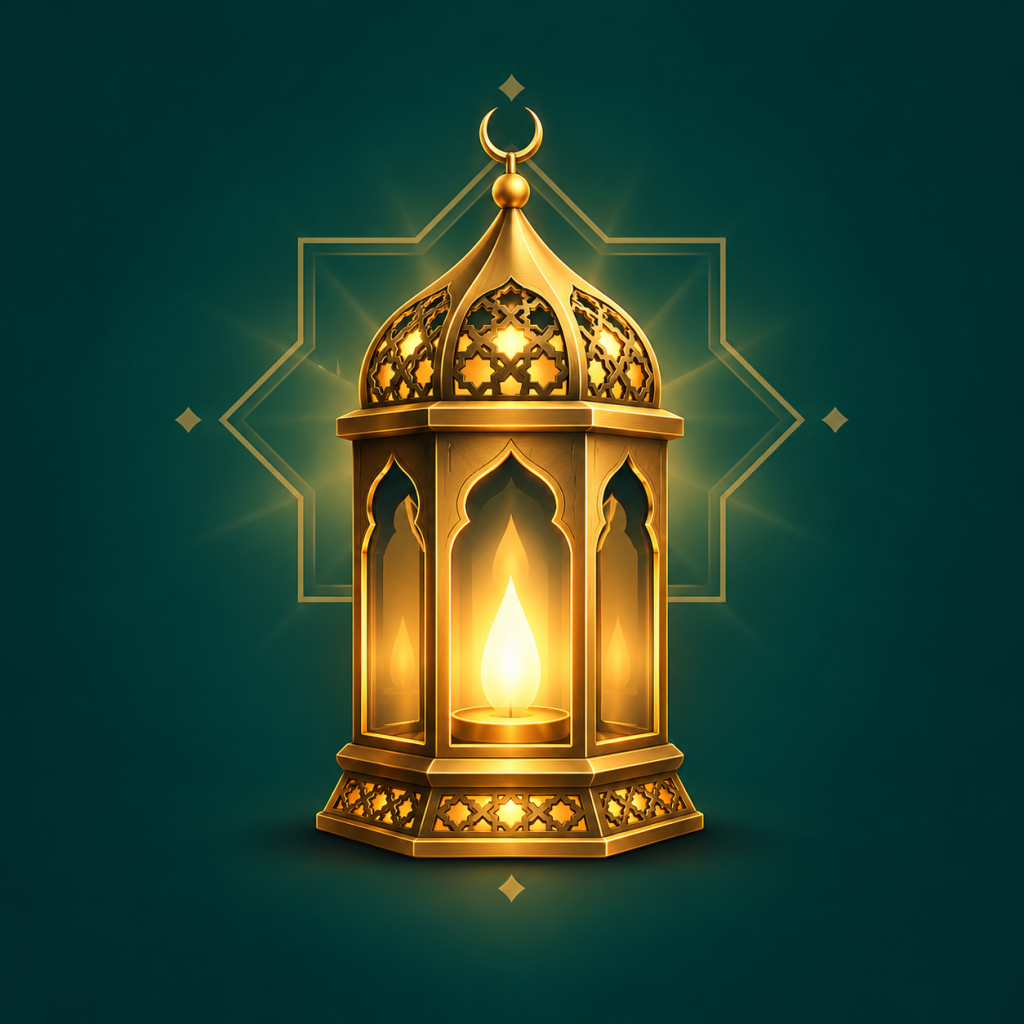
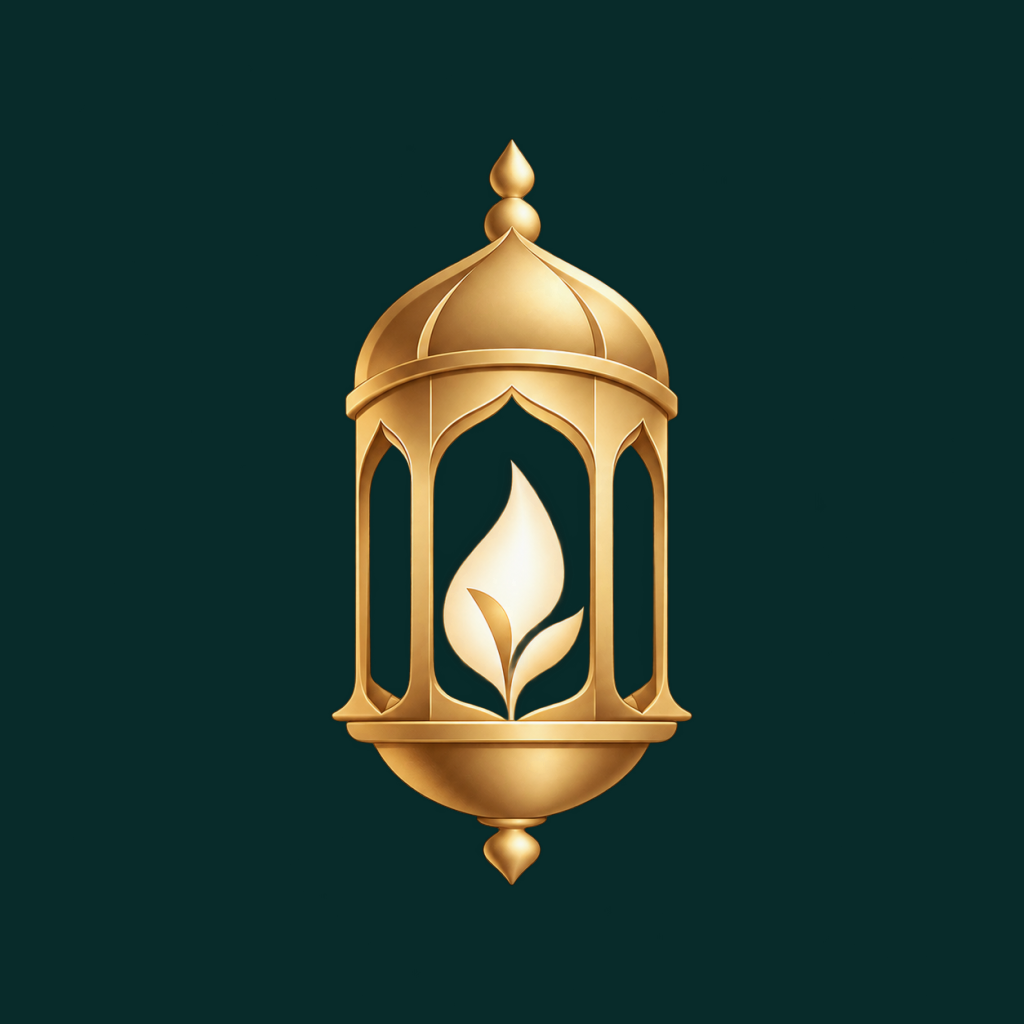
Refresh Siraj lantern branding and Arabic launcher label

Changed region(s): [[0.1562, 0.0625, 0.8438, 0.9375]]

diff --git a/sirag 29 updated/docs/PLAY-RELEASE.md b/sirag 29 updated/docs/PLAY-RELEASE.md
@@ -6,7 +6,7 @@ The owner has an existing Play developer account, so this workflow does not need
 
 Prepared in source:
 
-- App name `Siraj | سراج`, version `1.0.0`, initial Android versionCode `1`.
+- Installed app label `سراج`, store listing title `Siraj | سراج`, version `1.0.0`, initial Android versionCode `1`.
 - Android package `com.sirag.livingdesert`. Confirm this before the first upload; a published app's package is permanent. If it already exists in your Play Console, keep its existing signing/upload-key setup and increment its version code.
 - Original generated lantern icon and a 512×512 Play icon export; 1024×500 feature graphic.
 - `play-internal` / `production` EAS profiles produce an Android App Bundle (.aab). They use remote build-number increments. Both currently keep ads off.
@@ -30,6 +30,12 @@ Live ads remain off. Existing conservative SDK child/under-age flags are intenti
 ## Android startup recovery
 
 Version 1.0.0 (2) crashes in native WorkManager database initialization on the owner's Nothing Phone (2). A recovery build configuration is prepared; it still requires an EAS rebuild and an on-device launch test. See [ANDROID-STARTUP-RECOVERY.md](ANDROID-STARTUP-RECOVERY.md). Do not promote the failing internal build to production.
+
+## Name and icon update
+
+The owner confirmed that recovery build version code 3 starts successfully. Keep the Android startup recovery configuration. The new launcher label is `سراج`. The app uses a new gold lantern icon on midnight teal, with a transparent adaptive foreground and a separate opaque Play icon. `npm run build:icons` regenerates the size-specific assets from the master.
+
+Installed app labels and icons require a new native AAB; the existing EAS project, Android package and remote signing key stay unchanged. Update the installed test app through Play after uploading the next build. In Play Console, edit Grow users → Store presence → Main store listing (or the current equivalent): set the Arabic title to `سراج | Siraj`, English title to `Siraj | سراج`, and upload `store-listing/icon-512.png`. The temporary `com.sirag.livingdesert (unreviewed)` internal-test listing is controlled by Google and may remain until initial listing review; changing the binary does not force it to disappear. Store metadata does not automatically update from app.json.
 
 ## Local package checks
 
